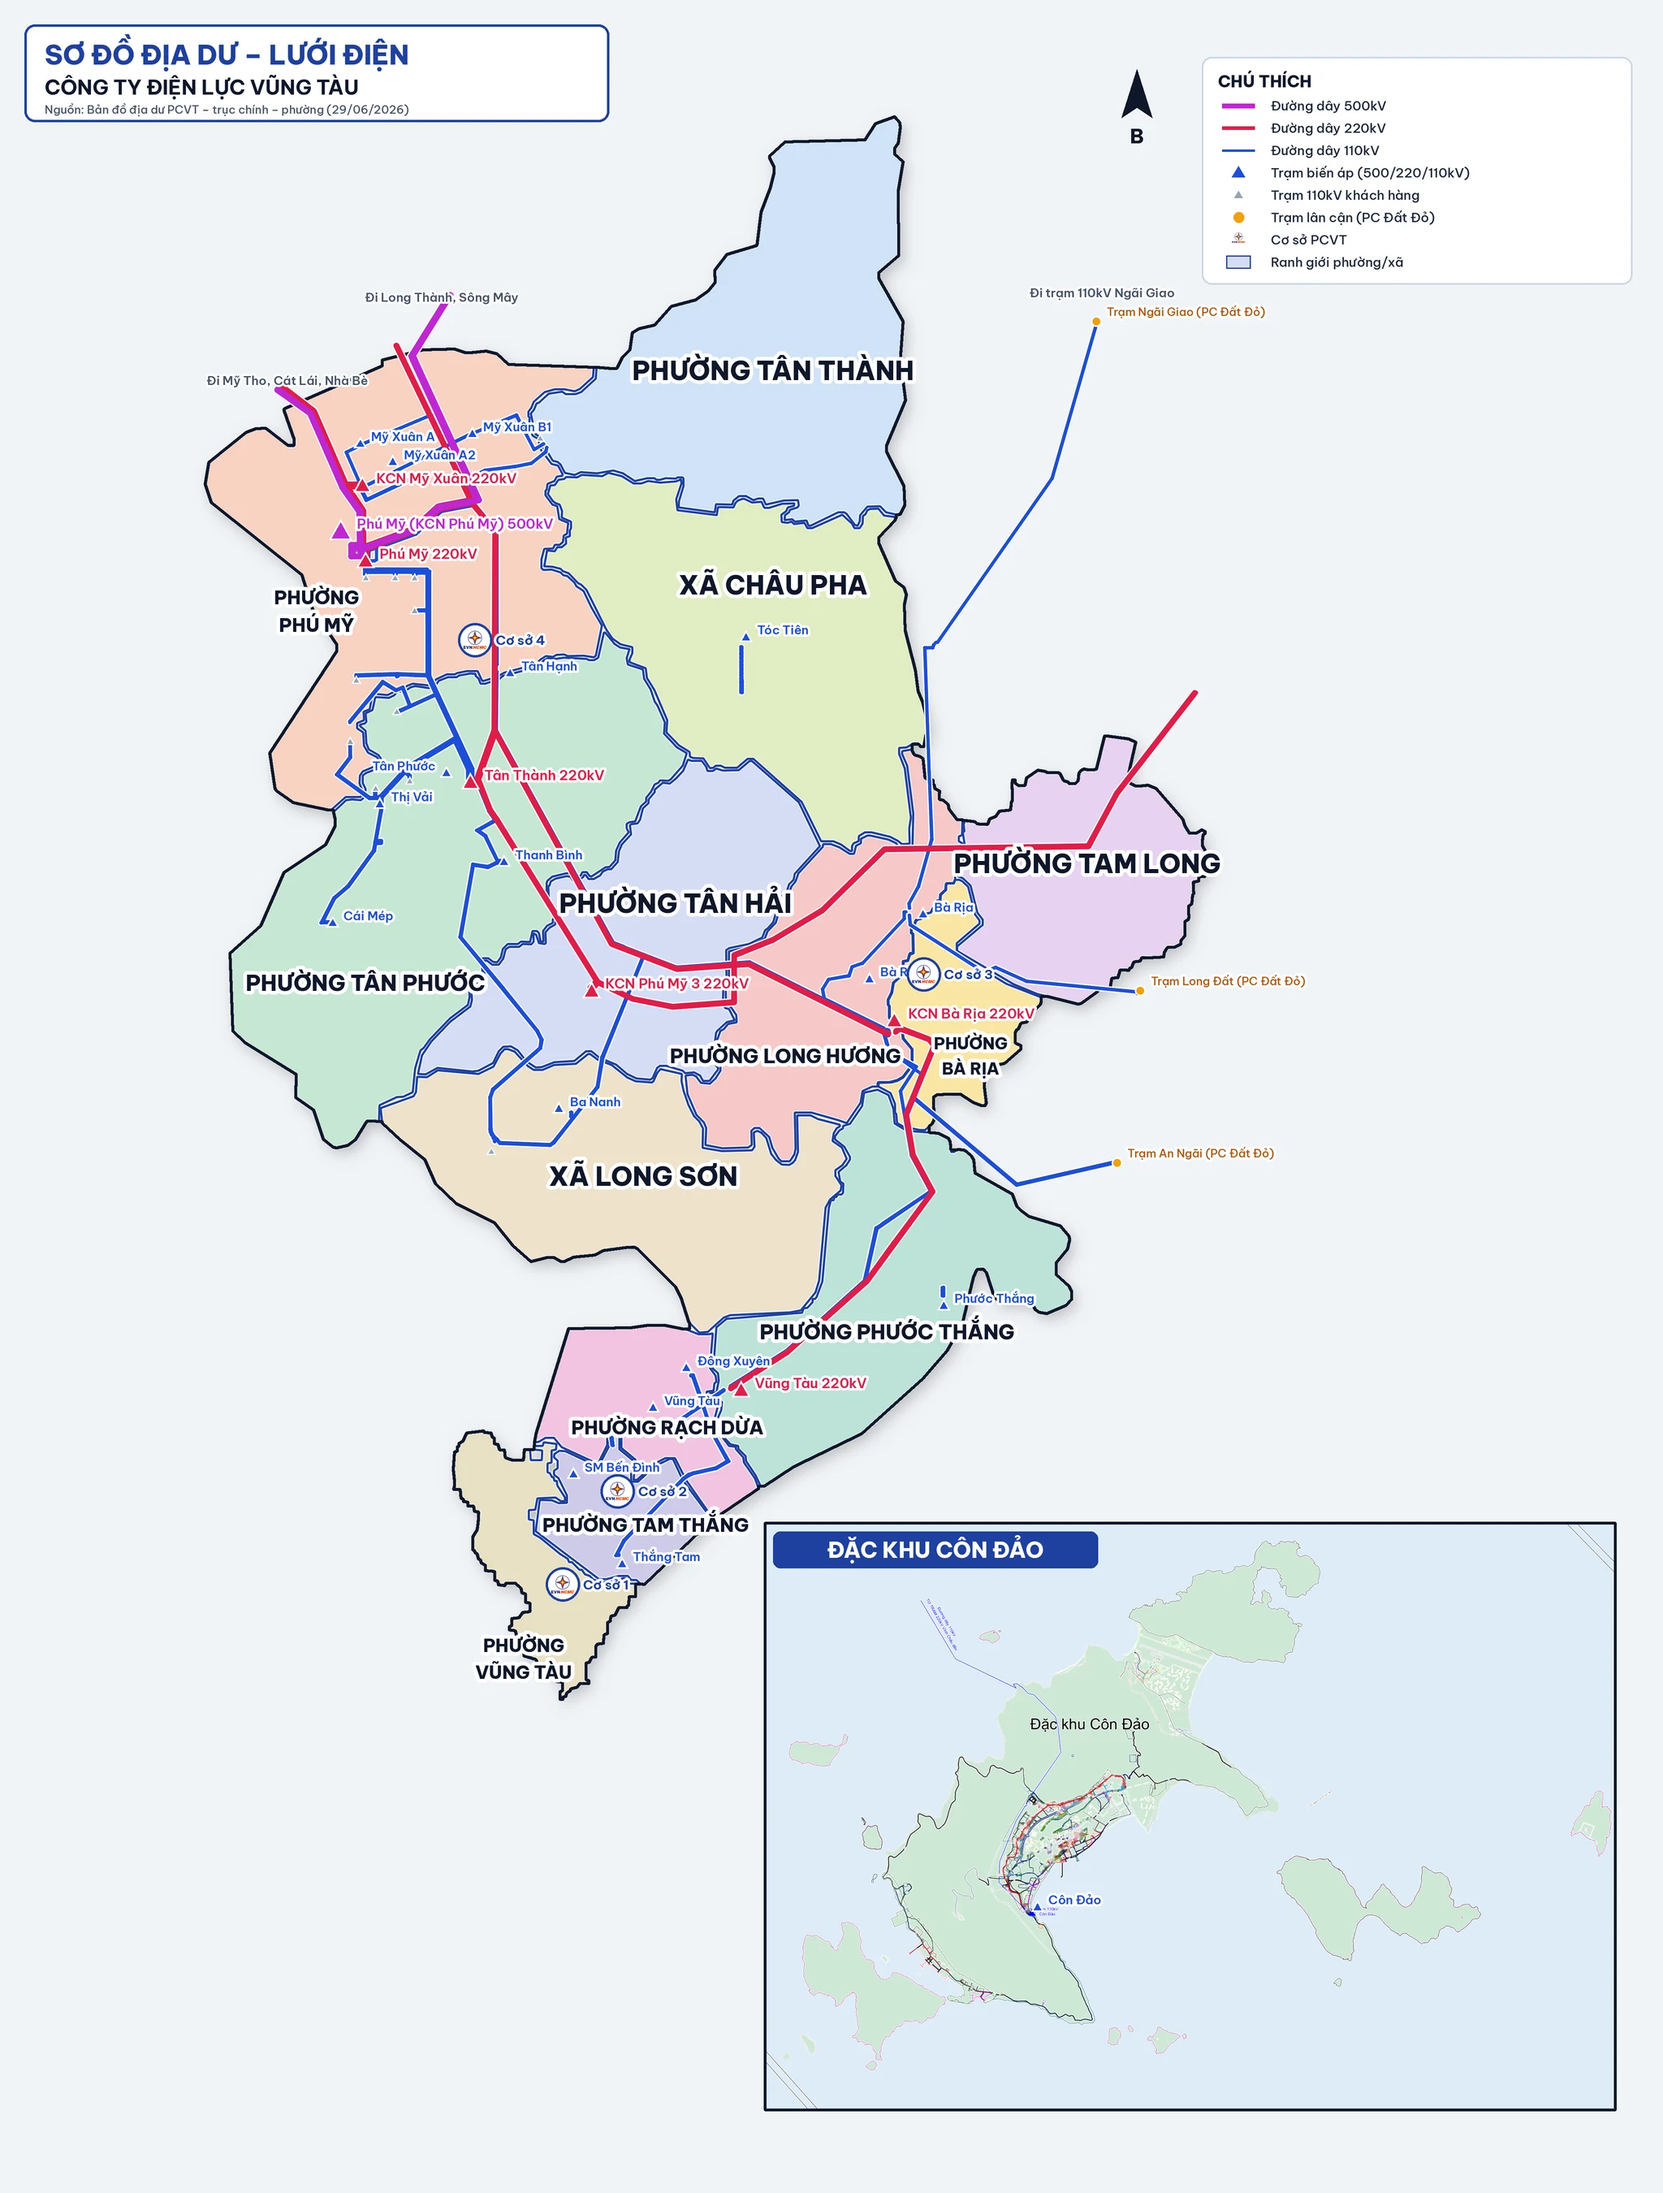
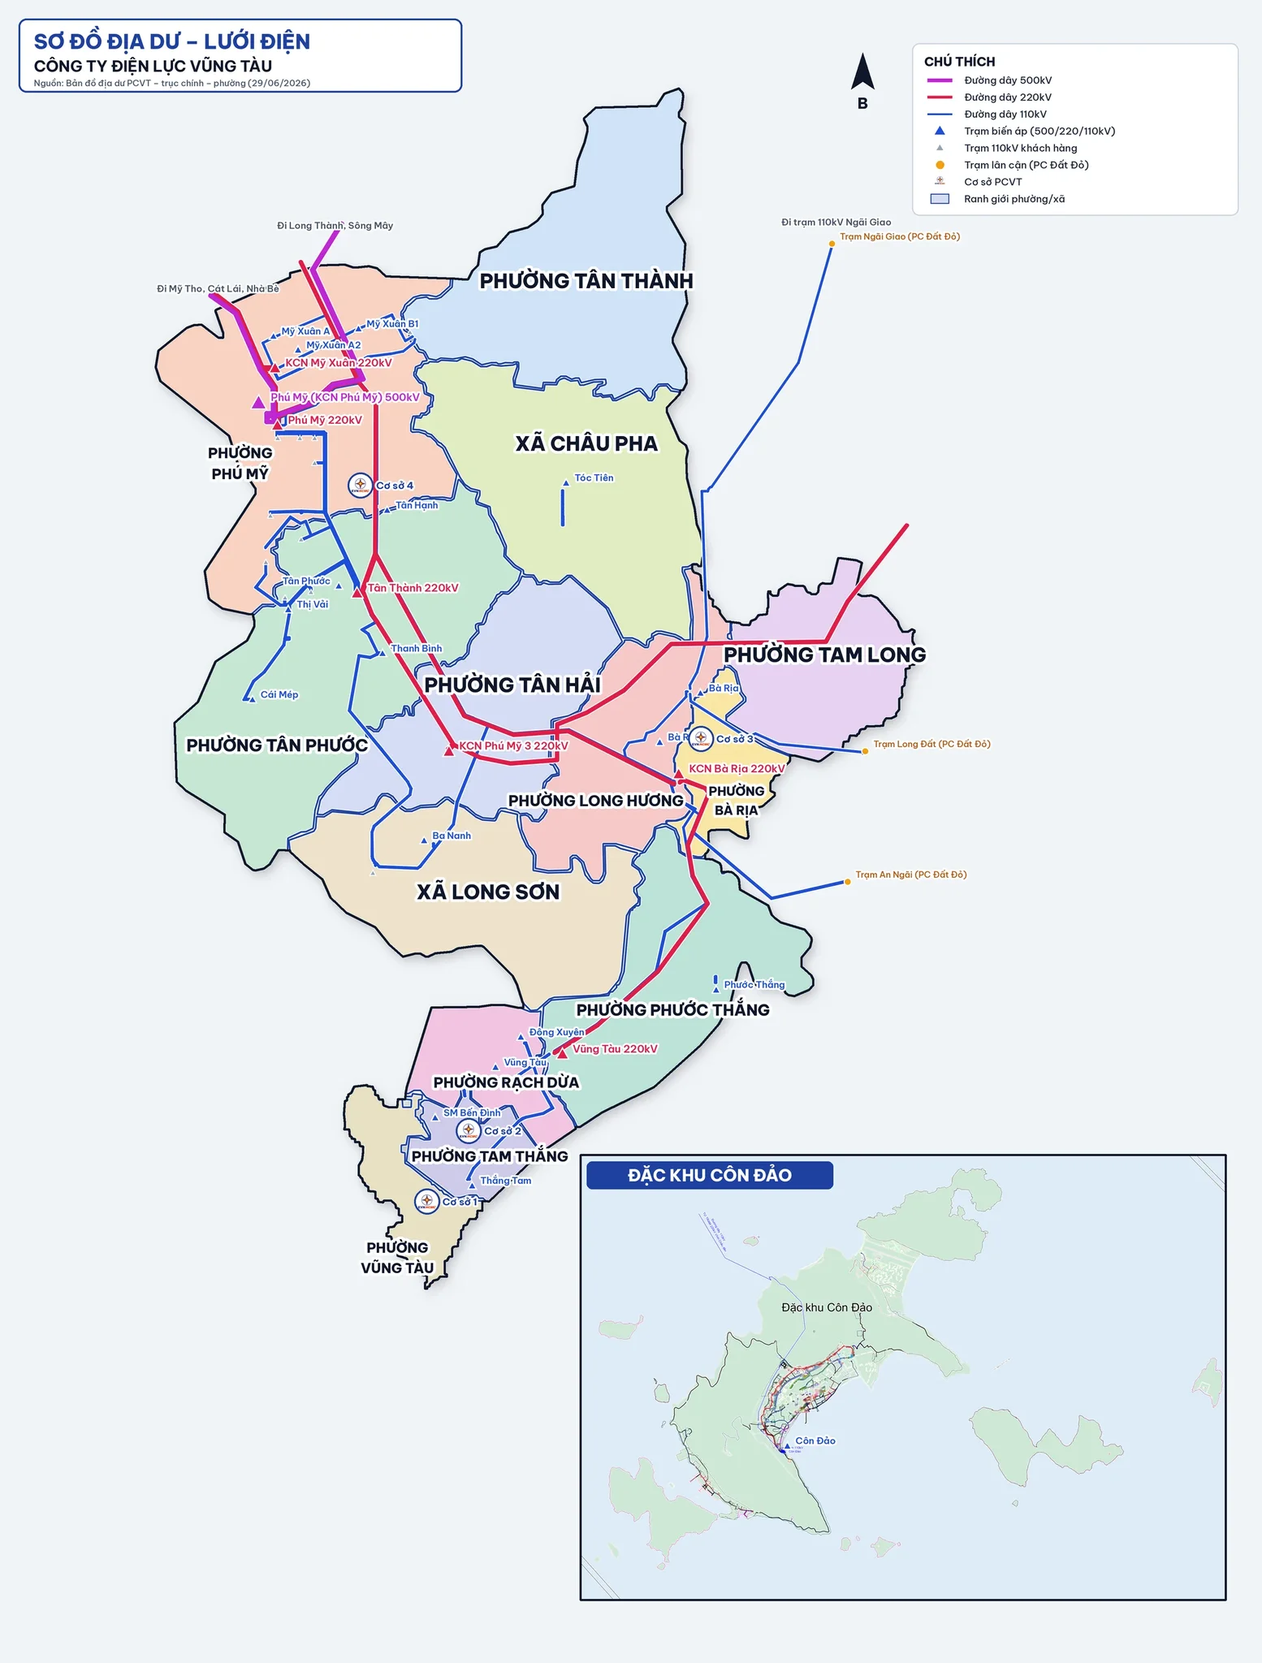
fix(saban): optimize 2048 webp size and ensure material update on load

diff --git a/js/grid-map-table.js b/js/grid-map-table.js
@@ -183,6 +183,10 @@ export class GridMapTable {
       tex.minFilter = THREE.LinearMipmapLinearFilter;
       tex.anisotropy = maxAnis;
       tex.needsUpdate = true;
+      if (this.boardMesh && this.boardMesh.material) {
+        this.boardMesh.material.map = tex;
+        this.boardMesh.material.needsUpdate = true;
+      }
     });
     this.tex2048.colorSpace = THREE.SRGBColorSpace;
     this.tex2048.generateMipmaps = true;
